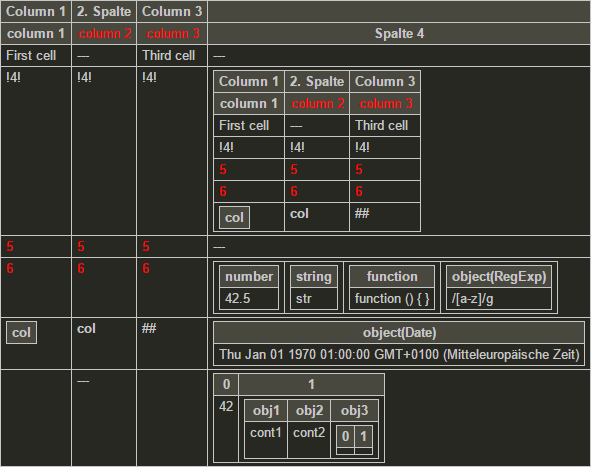
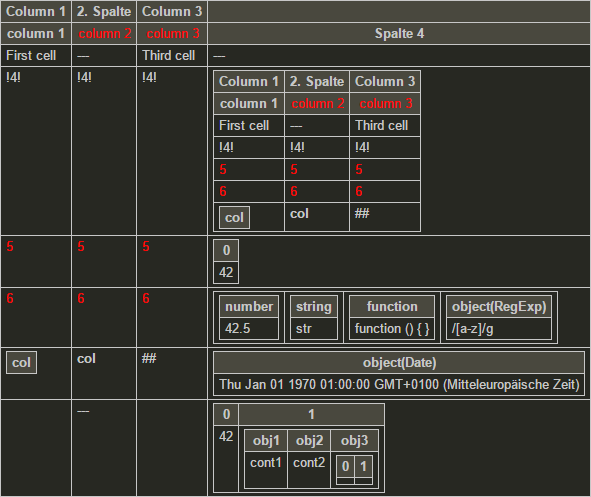
Issue #32: maxRecusion is now supported for tablify()

Changed region(s): [[0.0, 0.0, 1.0, 1.0], [0.1218, 0.6895, 0.1827, 0.7495], [0.2132, 0.6895, 0.2741, 0.7495]]

diff --git a/Tablify/Tablify.ts b/Tablify/Tablify.ts
@@ -14,16 +14,22 @@ module Tablify {
 
     /*
      * Converts any Array or Object into a Table. Recursion is possible.
-     * @object      Object      The table will have 2 rows: The first (title) row contains the key, the second (body) row the object's value.
-     *              Array       The table will have 2 rows: The first (title) row contains the array index, the second (body) row the array's value.
-     *              any         Any other type (string, number, function,...) will result in a table containing 2 cells: The first (top/title) cell contains the type ("typeof object"), eventually following by "(RegExp)" or "(Date)", the second (bottom/body) cell contains the result of "object.toString()"
-     * @target      string      JQuery-Selector. Is resolved to a JQuery element (see below)
-     *              JQuery      References a single HTMLElement. If the Element is a <table> (HTMLTableElement), the Table is initialised with the table content; Otherwise, a new table is generated within the HTMLElement
-     *              Element     Target element. Is converted to a JQuery element (see above)
-     * @return      Table       Returns the generated Table instance.
+     * @object          Object      The table will have 2 rows: The first (title) row contains the key, the second (body) row the object's value.
+     *                  Array       The table will have 2 rows: The first (title) row contains the array index, the second (body) row the array's value.
+     *                  any         Any other type (string, number, function,...) will result in a table containing 2 cells: The first (top/title) cell contains the type ("typeof object"), eventually following by "(RegExp)" or "(Date)", the second (bottom/body) cell contains the result of "object.toString()"
+     * @target          string      JQuery-Selector. Is resolved to a JQuery element (see below)
+     *                  JQuery      References a single HTMLElement. If the Element is a <table> (HTMLTableElement), the Table is initialised with the table content; Otherwise, a new table is generated within the HTMLElement
+     *                  Element     Target element. Is converted to a JQuery element (see above)
+     * @maxRecursion    number      The max. recursion depth, default = 10. If the max. depth has been reached, objects and arrays will be displayed using ".toString()".
+     * @return          Table       Returns the generated Table instance.
      * Note: If an array or object is passed and one of it's fields is another array/object, tablify is called recursive, leading in nested tables. The return value represents the top table.
      */
-    export function tablify(object: Object|Array<any>|any, target?: Selector): Table {                
+    export function tablify(object: Object|Array<any>|any, target?: Selector, maxRecursion?: number): Table { 
+        if (typeof maxRecursion !== "number") {
+            maxRecursion = 10;
+        }
+        --maxRecursion;
+
         if (object instanceof Array) {
             var table = new Table({
                 rows: [ "index", "value" ],
@@ -34,7 +40,7 @@ module Tablify {
                 table.addColumn({
                     columnId:   index,
                     content: {  "index": index,
-                                "value": (typeof object[i] !== "object") ? object[i].toString() : tablify(object[i])
+                                "value": (typeof object[i] !== "object" || maxRecursion < 0) ? object[i].toString() : tablify(object[i], null, maxRecursion)
                     }
                 });
             }
@@ -54,7 +60,7 @@ module Tablify {
                 table.addColumn({
                     columnId: key,
                     content: {  "key": key,
-                                "value": (typeof object[key] !== "object") ? object[key].toString() : tablify(object[key])
+                                "value": (typeof object[key] !== "object" || maxRecursion < 0) ? object[key].toString() : tablify(object[key], null, maxRecursion)
                     }
                 });
             }
@@ -76,6 +82,10 @@ module Tablify {
         }, target);        
         return table;
     }
+    
+
+
+
 
 
     /*

diff --git a/Tablify/index.ts b/Tablify/index.ts
@@ -74,6 +74,7 @@ function generateTestTable(): Tablify.Table {
         defaultBodyContent: "---",
         content: {
             "Title row": null,
+            "row5": Tablify.tablify([[[[[[[[42]]]]]]]], undefined, 0),
             "row6": primitiveTablifies,
             "row7": Tablify.tablify(new Date(0)),
             "row8": Tablify.tablify([42, { "obj1": "cont1", "obj2": "cont2", "obj3": [[], {}] }]),
@@ -148,9 +149,7 @@ window.onload = () => {
     var array = ["a", "b", "c", "d", "e", "f", "g"];
     var object = { first: array, second: array, third: array };
     var superArray = [object, object, object, object];
-
-
-
+    
     console.log("Tablifying...");
     var contentToTablify = [
         obj,
@@ -166,15 +165,13 @@ window.onload = () => {
     
 
     for (var i = 0; i < contentToTablify.length; ++i) {
-        try {
-            (<any>contentToTablify[i]).tablify("#content");
-        } catch(e) {
-            console.log("no tablify for", contentToTablify[i]);
-
-            Tablify.tablify(contentToTablify[i], "#content");
-        }
+        Tablify.tablify(contentToTablify[i], "#content", 1);
     }
         
+    
+
+
+
 };
 
  
